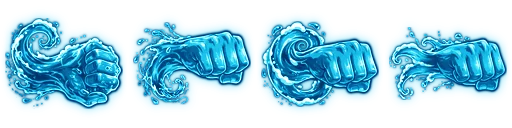
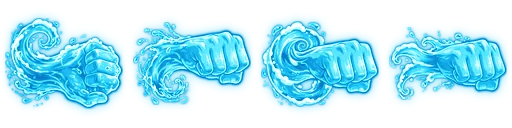
dune: otter K and L water glows

diff --git a/dune.html b/dune.html
@@ -171,7 +171,7 @@ const DRAGON_COMBO = [ /* hit feel: stop = freeze on contact (s), shake, big = f
 const COMBO = OTTER ? OTTER_COMBO : DRAGON_COMBO;
 
 /* ---------- assets ---------- */
-const BUILD = 23;   /* raise when sprites.json / world.json change, so a browser never mixes a new page with an old list */
+const BUILD = 24;   /* raise when sprites.json / world.json change, so a browser never mixes a new page with an old list */
 const SP = {}, ENV = {}, IMG = {}; let WORLD = {};
 const load = src => new Promise(ok => { const i = new Image(); i.onload = () => Promise.race([i.decode ? i.decode().catch(() => { }) : Promise.resolve(), new Promise(r => setTimeout(r, 2500))]).then(() => ok(i));   /* a browser may never finish decode() in a background window: the game must still start */ i.onerror = () => { console.warn('missing', src); ok(null); }; i.src = src; });
 async function loadAll() {
@@ -329,7 +329,8 @@ function stepOtter(dt) {
 }
 function waterFists(d, n, big) { for (let j = 0; j < n; j++) G.wf.push({ x: P.x + d * (20 + rand(0, 8)), y: P.y - 38 + rand(-17, 14), d, L: rand(72, 104) + (big ? 16 : 0), t: 0, T: big ? .21 : .16, wait: j * .022, z: big ? rand(66, 76) : rand(40, 52), i: Math.floor(Math.random() * 4) }); }
 function stepFists(dt) { for (let i = G.wf.length - 1; i >= 0; i--) { const q = G.wf[i]; if (q.wait > 0) { q.wait -= dt; continue; } q.t += dt; if (q.t >= q.T) { drip(q.x + q.d * q.L, q.y, 2, 120); G.wf.splice(i, 1); } } }
-function drawFists() { for (const q of G.wf) { const m = SP[q.k || 'otter_wfist']; if (!m || !m.img || q.wait > 0) continue; const p = q.t / q.T, e = out3(p / .7), k = .62 + .38 * Math.min(1, p / .25); ctx.save(); ctx.globalAlpha = p < .1 ? p / .1 : 1 - sm((p - .74) / .26); ctx.translate(WX(q.x + q.d * q.L * e), WY(q.y)); halo(-q.d * q.z * .2 * k, 0, q.z * .62 * k, .55); ctx.scale(q.d * k, k); ctx.drawImage(m.img, q.i * m.w, 0, m.w, m.h, -q.z * .86, -q.z / 2, q.z, q.z); ctx.restore(); } }
+function glowCell(key, m, i, z) { const g = WFX2 && SP[key + '_glow']; if (g && g.img) ctx.drawImage(g.img, i * g.w, 0, g.w, g.h, -z * 1.36, -z, z * 2, z * 2); ctx.drawImage(m.img, i * m.w, 0, m.w, m.h, -z * .86, -z / 2, z, z); if (WFX2) { const b = ctx.globalAlpha; ctx.globalCompositeOperation = 'lighter'; ctx.globalAlpha = b * .24; ctx.drawImage(m.img, i * m.w, 0, m.w, m.h, -z * .86, -z / 2, z, z); ctx.globalAlpha = b; ctx.globalCompositeOperation = 'source-over'; } }   /* owner: K and L glow too: light behind, a bright pass on top */
+function drawFists() { for (const q of G.wf) { const m = SP[q.k || 'otter_wfist']; if (!m || !m.img || q.wait > 0) continue; const p = q.t / q.T, e = out3(p / .7), k = .62 + .38 * Math.min(1, p / .25); ctx.save(); ctx.globalAlpha = p < .1 ? p / .1 : 1 - sm((p - .74) / .26); ctx.translate(WX(q.x + q.d * q.L * e), WY(q.y)); ctx.scale(q.d * k, k); glowCell(q.k || 'otter_wfist', m, q.i, q.z); ctx.restore(); } }
 function waterSwirl(x, y, z, al) { const m = SP.fx_w_spin; if (!m || !m.img) return; const i = 3 + Math.floor(G.t * 22) % 3; ctx.save(); ctx.globalAlpha = al; ctx.translate(WX(x), WY(y)); ctx.rotate(G.t * 15 * P.dir); ctx.drawImage(m.img, (i % m.cols) * m.w, Math.floor(i / m.cols) * m.h, m.w, m.h, -z / 2, -z / 2, z, z); ctx.restore(); }
 function fistAt(C) { const i = Math.min(15, Math.floor(P.f)), u = P.f - i, A = C.fist[i], B = C.fist[Math.min(15, i + 1)]; return { x: P.x + P.dir * lerp(A[0], B[0], u), y: P.y - lerp(A[1], B[1], u) }; }
 function drip(x, y, n, sp) { for (let i = 0; i < n && G.wd.length < 120; i++) { const a = rand(0, 6.283), v = rand(sp * .35, sp); G.wd.push({ x, y, vx: Math.cos(a) * v + P.dir * sp * .25, vy: Math.sin(a) * v - 50, t: rand(.2, .42), r: rand(1, 2.5) }); } }
@@ -337,7 +338,7 @@ function bodyDrops(dt) { if (P.dead || (P.st !== 'atk' && P.st !== 'skill')) ret
 function stepDrips(dt) { bodyDrops(dt); for (let i = G.wd.length - 1; i >= 0; i--) { const d = G.wd[i]; d.t -= dt; if (d.t <= 0) { G.wd.splice(i, 1); continue; } d.vy += 760 * dt; d.x += d.vx * dt; d.y += d.vy * dt; } }
 let GLOWDOT = null; function halo(x, y, r, a = 1) { if (!WFX2) return; if (!GLOWDOT) { GLOWDOT = document.createElement('canvas'); GLOWDOT.width = GLOWDOT.height = 64; const c = GLOWDOT.getContext('2d'), g = c.createRadialGradient(32, 32, 2, 32, 32, 32); g.addColorStop(0, 'rgba(130,242,255,.95)'); g.addColorStop(.35, 'rgba(44,214,250,.58)'); g.addColorStop(.7, 'rgba(30,194,246,.17)'); g.addColorStop(1, 'rgba(30,190,245,0)'); c.fillStyle = g; c.fillRect(0, 0, 64, 64); } const b = ctx.globalAlpha; ctx.globalAlpha = b * a; ctx.drawImage(GLOWDOT, x - r, y - r, r * 2, r * 2); ctx.globalAlpha = b; }   /* soft cyan light behind orbs, drops and fists */
 function drawDrips() { if (!G.wd.length) return; ctx.save(); for (const d of G.wd) halo(WX(d.x), WY(d.y), d.r * 3.6 * clamp(d.t / .14, .35, 1), .6); for (const [c, g] of (WFX2 ? [['#07609a', .7], ['#62e6ff', 0]] : [['#163f8f', .8], ['#68d8ff', 0]])) { ctx.fillStyle = c; ctx.beginPath(); for (const d of G.wd) { const r = d.r * clamp(d.t / .14, .35, 1) + g, x = WX(d.x), y = WY(d.y), an = Math.atan2(d.vy, d.vx), rx = r * (1 + clamp(Math.hypot(d.vx, d.vy) / 300, 0, 1) * .9); ctx.moveTo(x + Math.cos(an) * rx, y + Math.sin(an) * rx); ctx.ellipse(x, y, rx, r, an, 0, 6.283); } ctx.fill(); } ctx.fillStyle = '#f2fdff'; ctx.beginPath(); for (const d of G.wd) if (d.r > 1.6) { const x = WX(d.x) - d.r * .3, y = WY(d.y) - d.r * .3; ctx.moveTo(x + .7, y); ctx.arc(x, y, .7, 0, 6.283); } ctx.fill(); ctx.restore(); }
-function drawFistWater() { if (P.st === 'skill' && P.cast && P.cast.id === 'o_ult') { if (P.ph > 1) return; const q = fistAt(COMBO[2]), k = P.ph === 0 ? clamp(P.t / .52, 0, 1) : 1, o = SP.otter_orb; halo(WX(q.x), WY(q.y), 24 + 46 * out3(k), .35 + .45 * k); waterSwirl(q.x, q.y, 16 + 46 * out3(k) + Math.sin(G.t * 30) * 2 * k, .55 + .4 * k); if (o && o.img && k < 1) for (let i = 0; i < 5; i++) { const an = G.t * 7 + i * 6.283 / 5, r = (1 - k) * 46 + 5, z = 15 * (1 - k * .55); halo(WX(q.x + Math.cos(an) * r), WY(q.y + Math.sin(an) * r * .7), z * 1.3, .85); ctx.drawImage(o.img, ((Math.floor(G.t * 15) + i * 2) % o.n) * o.w, 0, o.w, o.h, WX(q.x + Math.cos(an) * r) - z / 2, WY(q.y + Math.sin(an) * r * .7) - z / 2, z, z); } return; } if (P.st === 'skill' && P.cast && P.cast.id === 'o_step') { const k = SP.otter_wkick; if (P.ph !== 1 || !k || !k.img) return; const z = 66 + Math.sin(G.t * 34) * 3, i = Math.floor(G.t * 16) % 4; ctx.save(); ctx.globalAlpha = .96; ctx.translate(WX(P.x + P.dir * (18 + z * .86)), WY(P.y - 21)); ctx.scale(P.dir, 1); ctx.drawImage(k.img, i * k.w, 0, k.w, k.h, -z * .86, -z / 2, z, z); ctx.restore(); return; } if (P.st !== 'atk') return; const C = COMBO[P.combo], m = SP.fx_w_spin; if (!m || !m.img) return; const f = P.f, a = clamp((f - (C.hit - 2)) / 1.4, 0, 1) * (1 - clamp((f - (C.hit + 2.4)) / 2, 0, 1)); if (a <= 0) return; const q = fistAt(C), pop = 1 - clamp(Math.abs(f - C.hit) / 3, 0, 1), z = (C.big ? 30 : 22) * (.68 + pop * .5), i = 3 + Math.floor(G.t * 22) % 3; ctx.save(); ctx.globalAlpha = a * .92; ctx.translate(WX(q.x + P.dir * 2), WY(q.y)); halo(0, 0, z * .98, .72); ctx.rotate(G.t * 15 * P.dir); ctx.drawImage(m.img, (i % m.cols) * m.w, Math.floor(i / m.cols) * m.h, m.w, m.h, -z / 2, -z / 2, z, z); ctx.restore(); }
+function drawFistWater() { if (P.st === 'skill' && P.cast && P.cast.id === 'o_ult') { if (P.ph > 1) return; const q = fistAt(COMBO[2]), k = P.ph === 0 ? clamp(P.t / .52, 0, 1) : 1, o = SP.otter_orb; halo(WX(q.x), WY(q.y), 24 + 46 * out3(k), .35 + .45 * k); waterSwirl(q.x, q.y, 16 + 46 * out3(k) + Math.sin(G.t * 30) * 2 * k, .55 + .4 * k); if (o && o.img && k < 1) for (let i = 0; i < 5; i++) { const an = G.t * 7 + i * 6.283 / 5, r = (1 - k) * 46 + 5, z = 15 * (1 - k * .55); halo(WX(q.x + Math.cos(an) * r), WY(q.y + Math.sin(an) * r * .7), z * 1.3, .85); ctx.drawImage(o.img, ((Math.floor(G.t * 15) + i * 2) % o.n) * o.w, 0, o.w, o.h, WX(q.x + Math.cos(an) * r) - z / 2, WY(q.y + Math.sin(an) * r * .7) - z / 2, z, z); } return; } if (P.st === 'skill' && P.cast && P.cast.id === 'o_step') { const k = SP.otter_wkick; if (P.ph !== 1 || !k || !k.img) return; const z = 66 + Math.sin(G.t * 34) * 3, i = Math.floor(G.t * 16) % 4; ctx.save(); ctx.globalAlpha = .96; ctx.translate(WX(P.x + P.dir * (18 + z * .86)), WY(P.y - 21)); ctx.scale(P.dir, 1); glowCell('otter_wkick', k, i, z); ctx.restore(); return; } if (P.st !== 'atk') return; const C = COMBO[P.combo], m = SP.fx_w_spin; if (!m || !m.img) return; const f = P.f, a = clamp((f - (C.hit - 2)) / 1.4, 0, 1) * (1 - clamp((f - (C.hit + 2.4)) / 2, 0, 1)); if (a <= 0) return; const q = fistAt(C), pop = 1 - clamp(Math.abs(f - C.hit) / 3, 0, 1), z = (C.big ? 30 : 22) * (.68 + pop * .5), i = 3 + Math.floor(G.t * 22) % 3; ctx.save(); ctx.globalAlpha = a * .92; ctx.translate(WX(q.x + P.dir * 2), WY(q.y)); halo(0, 0, z * .98, .72); ctx.rotate(G.t * 15 * P.dir); ctx.drawImage(m.img, (i % m.cols) * m.w, Math.floor(i / m.cols) * m.h, m.w, m.h, -z / 2, -z / 2, z, z); ctx.restore(); }
 function spinOrb(i) { const t = P.t, a = (P.oa || 0) + i * 6.283 / 5, q = Math.sin(a), c = clamp((t - 21.5) / 2.5, 0, 1), gather = c * c * (3 - 2 * c), burst = t < 24 ? 0 : out3((t - 24) / 4), R = (24 + 28 * out3(t / 4)) * (1 - .6 * gather) + 130 * burst; return { x: P.x + Math.cos(a) * R, y: P.y - 34 + q * R * .42, q, burst }; }
 function drawFistRing(front) { /* owner: skill O = the water orbs grow big and circle the body, flung outward on the last hit */
   if (P.st !== 'skill' || !P.cast || P.cast.id !== 'o_spin') return; const m = SP.otter_orb; if (!m || !m.img) return; const t = P.t, fade = 1 - clamp((t - 25) / 2.6, 0, 1), grow = out3(t / 4.5);

diff --git a/tools/art/otter_water_glow.py b/tools/art/otter_water_glow.py
@@ -13,13 +13,21 @@ from PIL import Image
 OUT = 'art/dune/fx_kit/'; os.makedirs(OUT, exist_ok=True); sp = json.load(open('art/dune/sprites.json'))
 KEYS = ['fx_w_punch', 'fx_w_crown', 'fx_w_wave', 'fx_w_spin', 'fx_w_geyser', 'otter_wfist', 'otter_wkick']
 STOPS = np.array([0, .2, .42, .64, .83, 1], np.float32); COLS = np.array([(3, 52, 104), (5, 100, 158), (8, 160, 216), (42, 218, 248), (156, 242, 252), (255, 255, 255)], np.float32) / 255; HALO = np.array([38, 208, 250], np.float32) / 255
-def grade(f):
-    rgb, a = f[..., :3], f[..., 3]; L = rgb[..., 0] * .3 + rgb[..., 1] * .59 + rgb[..., 2] * .11; u = np.clip((L - .07) / .85, 0, 1) ** .92; c = np.dstack([np.interp(u, STOPS, COLS[:, i]) for i in range(3)]).astype(np.float32)
+BRIGHT = np.array([(8, 122, 196), (16, 168, 232), (40, 212, 250), (104, 236, 254), (196, 250, 255), (255, 255, 255)], np.float32) / 255   # the fist and the kick: no dark edge, so they read as light
+def grade(f, gamma=.92, cols=COLS):
+    rgb, a = f[..., :3], f[..., 3]; L = rgb[..., 0] * .3 + rgb[..., 1] * .59 + rgb[..., 2] * .11; u = np.clip((L - .07) / .85, 0, 1) ** gamma; c = np.dstack([np.interp(u, STOPS, cols[:, i]) for i in range(3)]).astype(np.float32)
     h, w = a.shape; e = np.minimum.reduce([np.arange(h)[:, None].repeat(w, 1), np.arange(w)[None].repeat(h, 0), h - 1 - np.arange(h)[:, None].repeat(w, 1), w - 1 - np.arange(w)[None].repeat(h, 0)]); k = w / 300   # the halo must fade before the cell edge
     glow = np.clip((cv2.GaussianBlur(a, (0, 0), 11 * k) * .75 + cv2.GaussianBlur(a, (0, 0), 3.5 * k) * .35) * 1.1, 0, 1) * .66 * np.clip(e / (14 * k), 0, 1); out = a + glow * (1 - a)
     pm = c * a[..., None] + HALO * (glow * (1 - a))[..., None]; return np.dstack([np.clip(pm / np.maximum(out[..., None], 1e-3), 0, 1), out])
+NEW = {}
 for key in KEYS:
     m = sp[key]; A = np.array(Image.open(m['src']).convert('RGBA'), np.float32) / 255; B = np.zeros_like(A); c = m.get('cols', m['n'])
     for i in range(m['n']):
-        x, y = (i % c) * m['w'], (i // c) * m['h']; B[y:y + m['h'], x:x + m['w']] = grade(A[y:y + m['h'], x:x + m['w']])
+        x, y = (i % c) * m['w'], (i // c) * m['h']; B[y:y + m['h'], x:x + m['w']] = grade(A[y:y + m['h'], x:x + m['w']], *((.74, BRIGHT) if key.startswith('otter_') else ()))
     p = f'{OUT}{key}.webp'; Image.fromarray((B * 255 + .5).astype(np.uint8), 'RGBA').save(p, 'WEBP', quality=86, alpha_quality=90, method=6); print(p, m['n'], os.path.getsize(p) // 1024, 'KB')
+    if key.startswith('otter_'):   # the art fills its cell, so its light gets its own sheet: one cell = twice the width and height of the fist, same centre
+        w = m['w']; G = np.zeros((w, w * m['n'], 4), np.float32); G[..., :3] = np.array([44, 216, 252], np.float32) / 255
+        for i in range(m['n']):
+            q = np.zeros((w * 2, w * 2), np.float32); q[w // 2:w // 2 + w, w // 2:w // 2 + w] = B[:w, i * w:(i + 1) * w, 3]; h = np.clip((cv2.GaussianBlur(q, (0, 0), 26) * 1.1 + cv2.GaussianBlur(q, (0, 0), 9) * .8) * 1.15, 0, .94); e = np.minimum.reduce([np.arange(w * 2)[:, None].repeat(w * 2, 1), np.arange(w * 2)[None].repeat(w * 2, 0), w * 2 - 1 - np.arange(w * 2)[:, None].repeat(w * 2, 1), w * 2 - 1 - np.arange(w * 2)[None].repeat(w * 2, 0)]); G[:w, i * w:(i + 1) * w, 3] = cv2.resize(h * np.clip(e / 34, 0, 1), (w, w), interpolation=cv2.INTER_AREA)
+        g = f'{OUT}{key}_glow.webp'; Image.fromarray((G * 255 + .5).astype(np.uint8), 'RGBA').save(g, 'WEBP', quality=80, alpha_quality=88, method=6); NEW[key + '_glow'] = {'src': g, 'n': m['n'], 'w': w, 'h': w, 'cols': m['n']}; print(g, os.path.getsize(g) // 1024, 'KB')
+sp.update(NEW); json.dump(sp, open('art/dune/sprites.json', 'w'), separators=(',', ':'))
